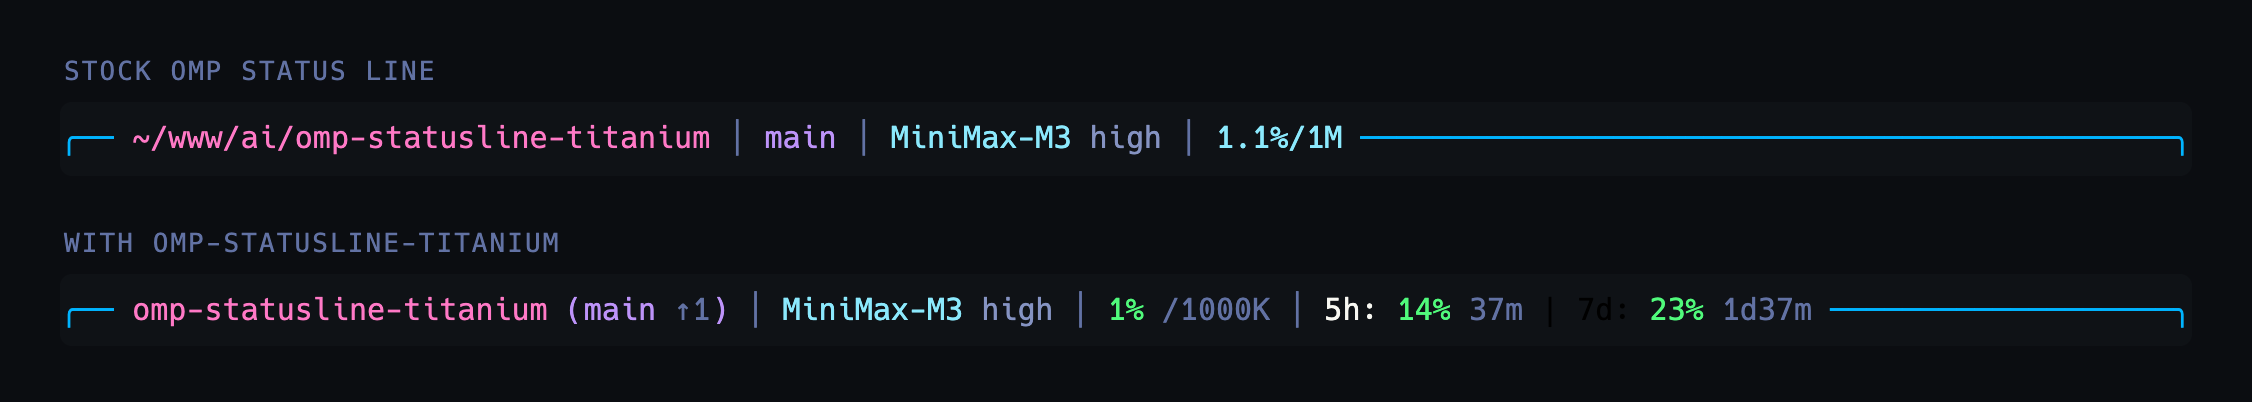
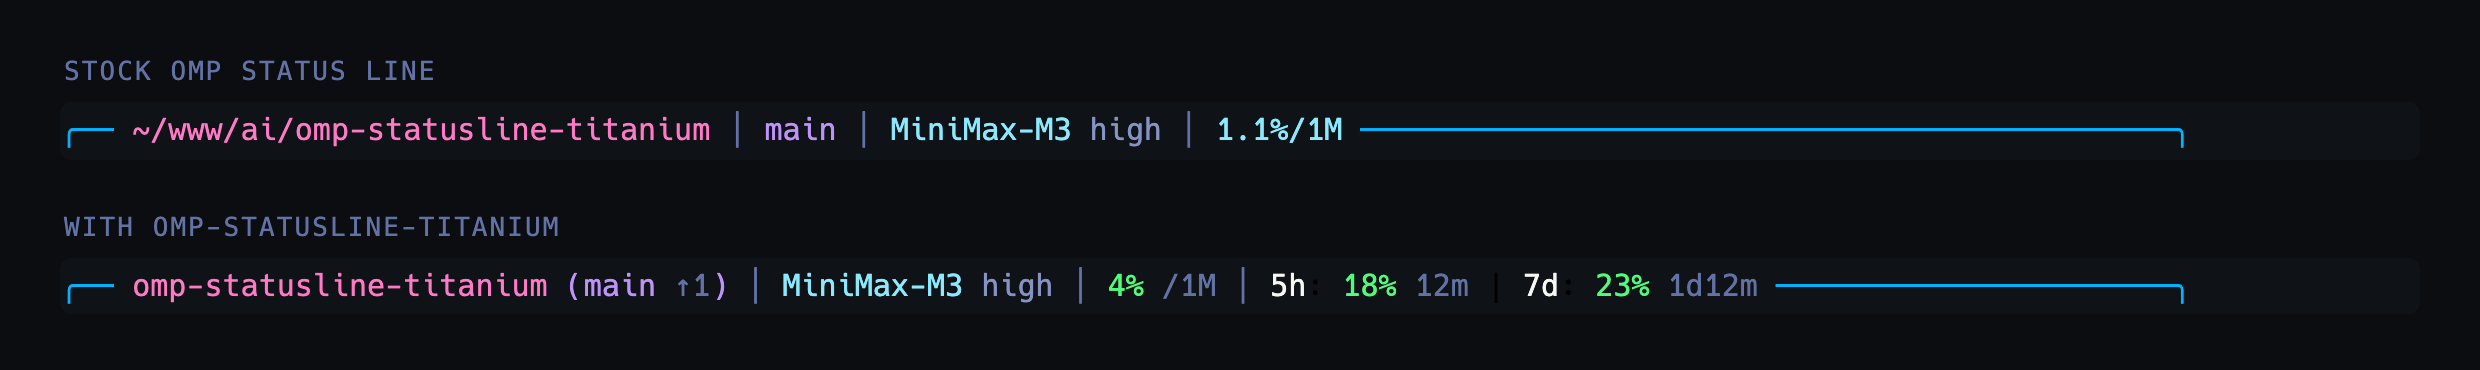
docs: add a live capture of the status line

diff --git a/README.md b/README.md
@@ -15,7 +15,15 @@ two readouts the stock bar does not have: **git divergence from the remote** and
 | `path` | Full path (`~/www/ai/omp-statusline-titanium`) | Current directory only, highlighted |
 | `git` | Branch name | Branch plus dirty marker and ahead/behind against the remote (`main* ↑2 ↓1`) |
 | `context_pct` | `1.1%/1M` | `1% /1M`, colored by band — warning at 40%, error at 60% |
-| `usage` | Not rendered for MiniMax | `5h: 15% 25m │ 7d: 23% 1d25m` — plan quota with time to reset |
+| `usage` | Not rendered for MiniMax | `5h: 18% 12m │ 7d: 23% 1d12m` — plan quota with time to reset |
+
+### Live
+
+![The status line reacting to a session in progress](assets/status-line.gif)
+
+Captured from a real session, frame by frame: the quota lands a moment after start, the
+context percentage climbs as turns run, plan usage ticks from 17% to 18%, a local commit
+shows up as `main ↑1`, and the reset countdown keeps moving.
 
 Each patch keeps the original renderer behind a `Symbol.for`, so reloading the extension
 never stacks layers on top of itself.
